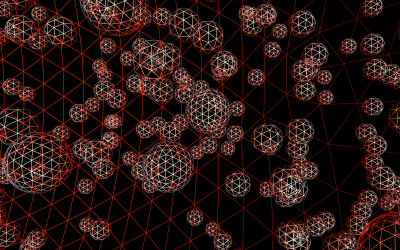
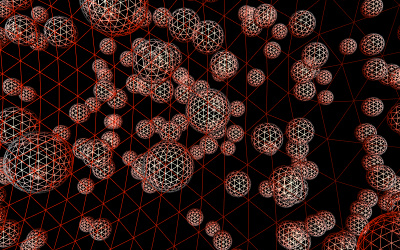
Examples: Updated webgl_lod.

diff --git a/examples/webgl_lod.html b/examples/webgl_lod.html
@@ -48,11 +48,11 @@
 
 				var geometry = [
 
-					[ new THREE.IcosahedronBufferGeometry( 100, 4 ), 50 ],
-					[ new THREE.IcosahedronBufferGeometry( 100, 3 ), 300 ],
-					[ new THREE.IcosahedronBufferGeometry( 100, 2 ), 1000 ],
-					[ new THREE.IcosahedronBufferGeometry( 100, 1 ), 2000 ],
-					[ new THREE.IcosahedronBufferGeometry( 100, 0 ), 8000 ]
+					[ new THREE.IcosahedronBufferGeometry( 100, 16 ), 50 ],
+					[ new THREE.IcosahedronBufferGeometry( 100, 8 ), 300 ],
+					[ new THREE.IcosahedronBufferGeometry( 100, 4 ), 1000 ],
+					[ new THREE.IcosahedronBufferGeometry( 100, 2 ), 2000 ],
+					[ new THREE.IcosahedronBufferGeometry( 100, 1 ), 8000 ]
 
 				];
 
